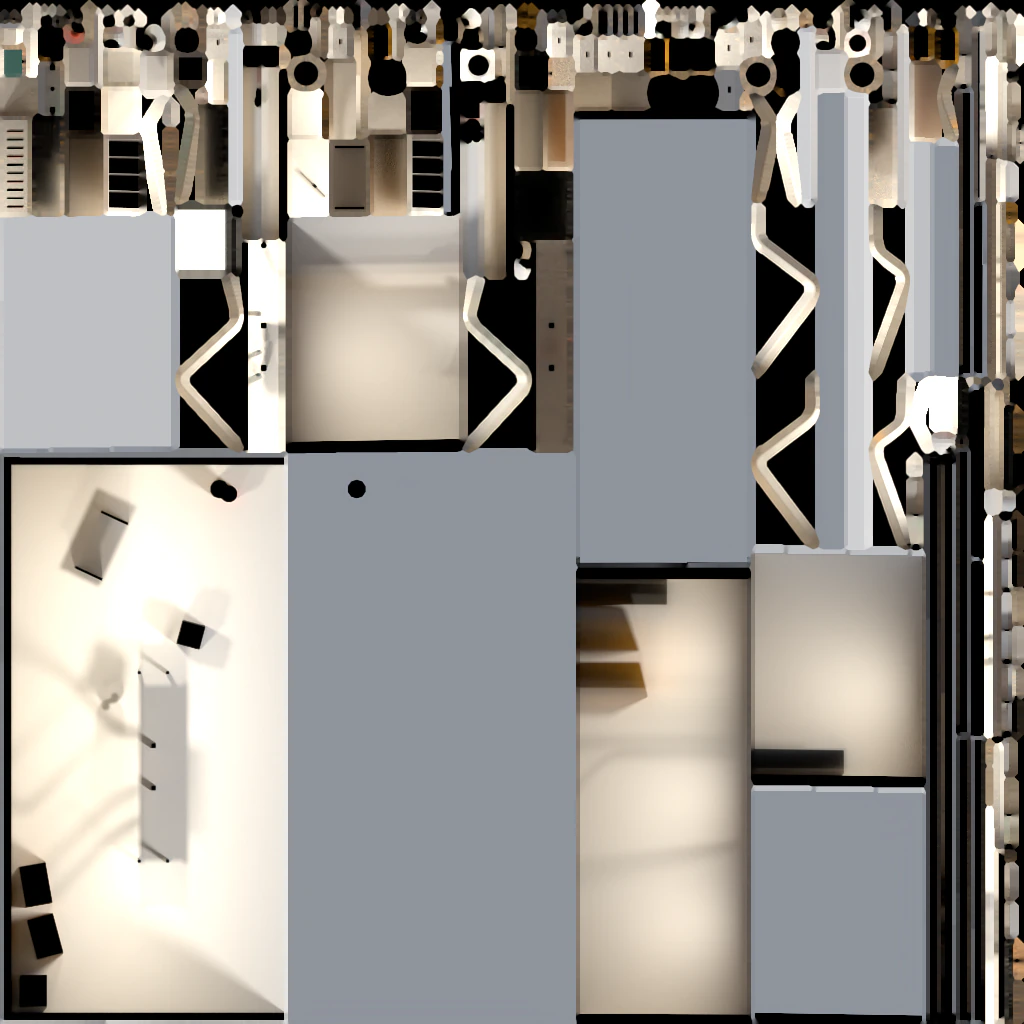
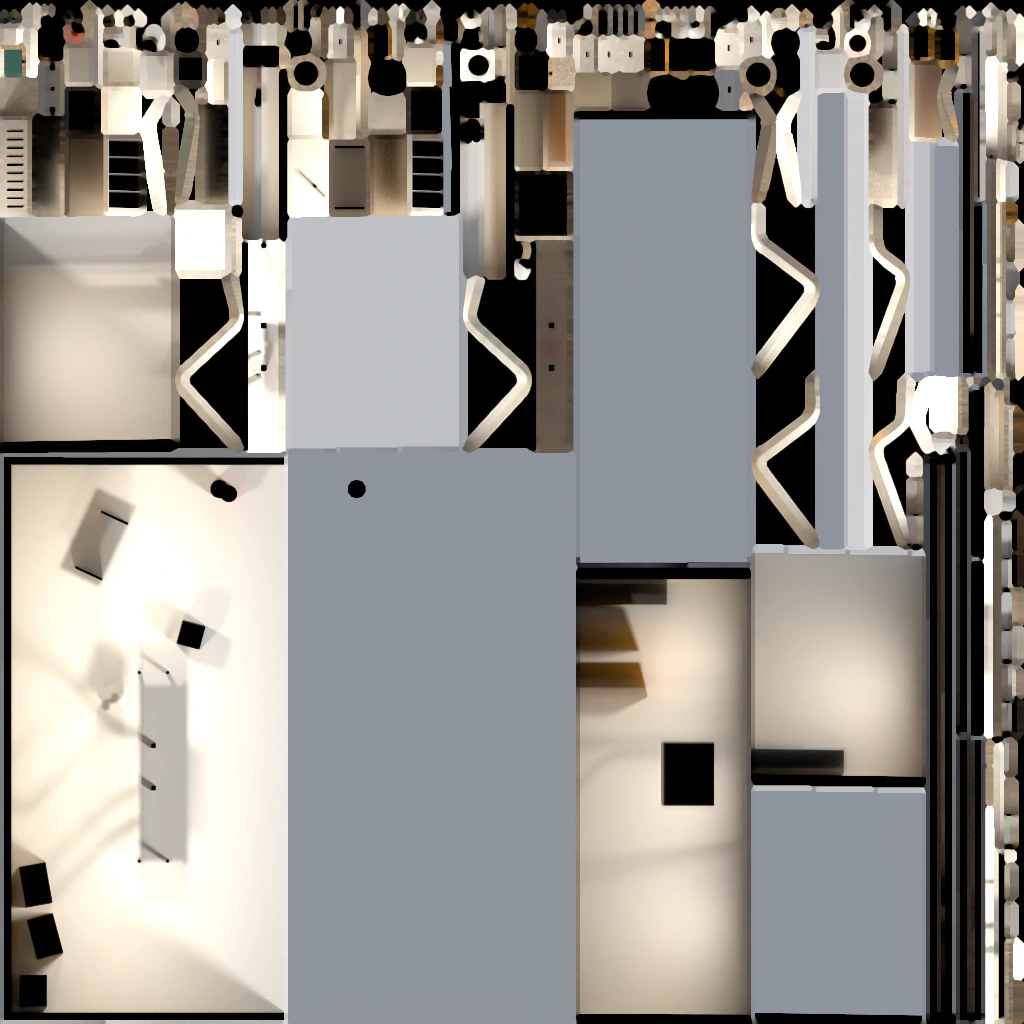
fix(art): bring the CRM kanban screen out of the back wall
It hung at z -2.85 while the wall's inner face is at -2.8, so it was never
visible. It now uses shell.back_wall_z(). CRM floor rebuilt.

diff --git a/art/blender/levels/crm.py b/art/blender/levels/crm.py
@@ -23,7 +23,7 @@ def build(ctx: BuildContext) -> None:
     props.deal_button(ctx, "deal", (2.2, 0.0, 1.0), action="run-deal", yaw_deg=-15.0)
 
     # Wall kanban screen displaying the live CRM pipeline stages
-    props.wall_screen(ctx, "kanban", (-0.6, 1.8, -2.85), screen_id="crm-kanban", size=(1.6, 1.0))
+    props.wall_screen(ctx, "kanban", (-0.6, 1.8, shell.back_wall_z(ctx)), screen_id="crm-kanban", size=(1.6, 1.0))
 
     # Filing cabinets along the back-left wall (CRM customer records)
     props.filing_cabinet(ctx, "cabinet-1", (-4.2, 0.0, -2.1), yaw_deg=15.0)
